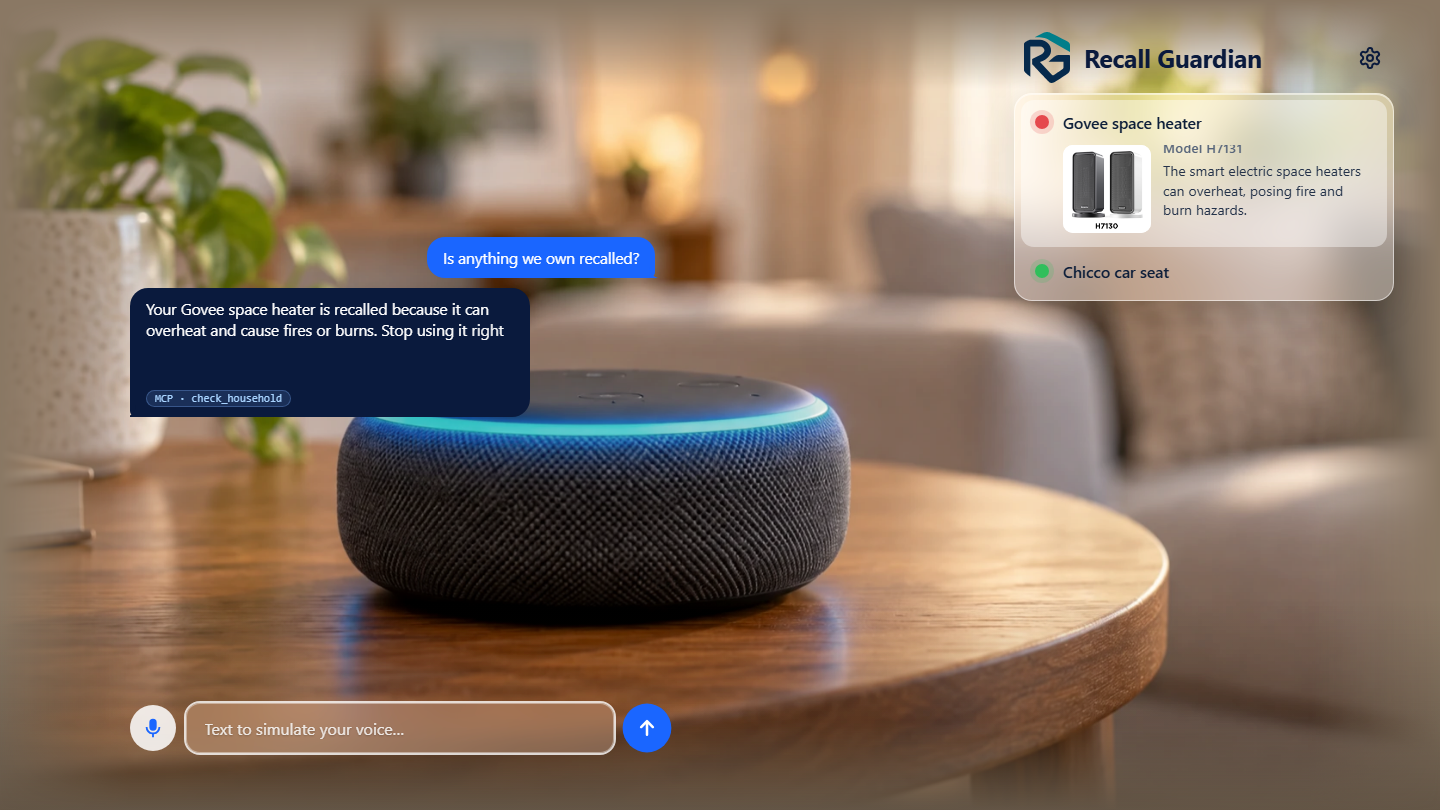
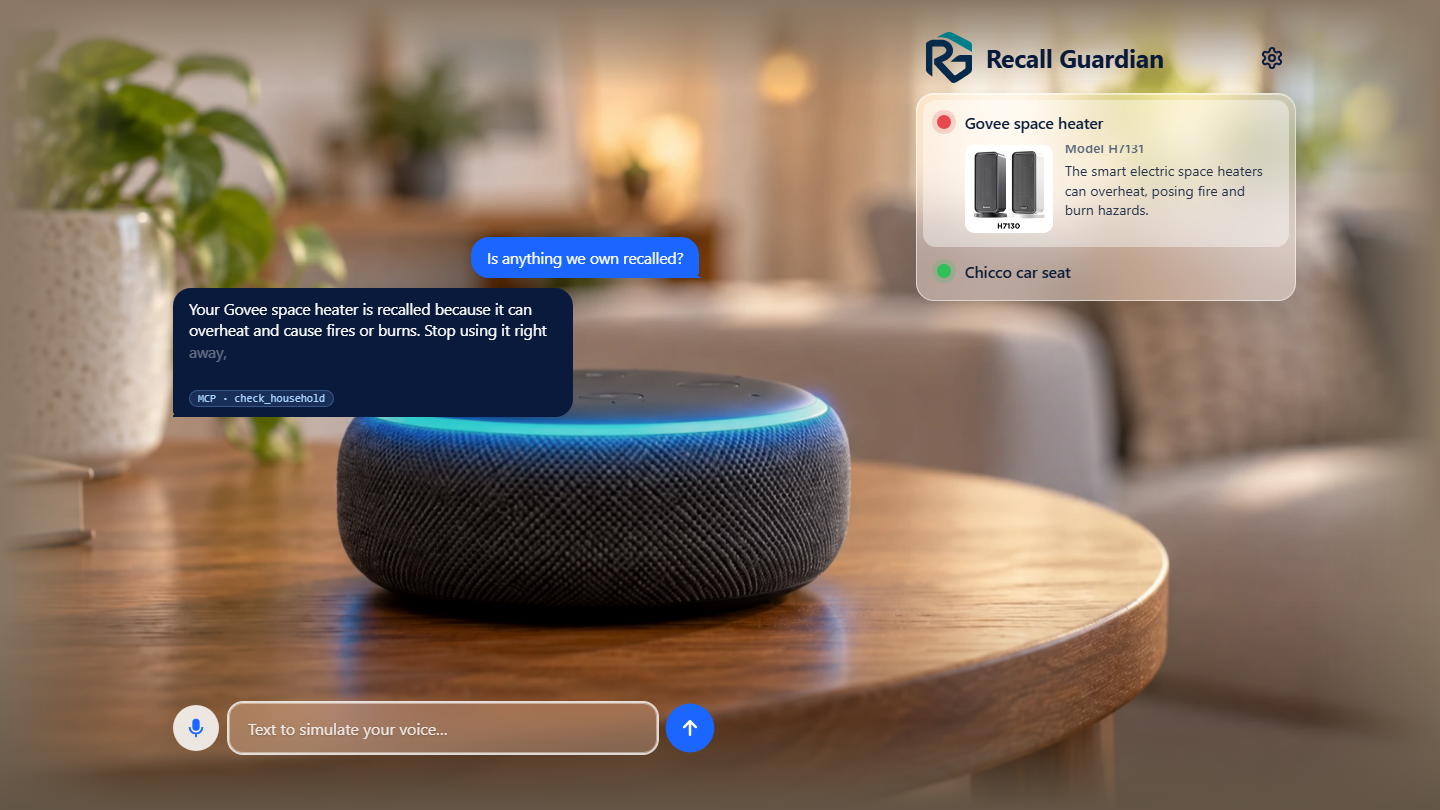
Simulator: place the chat and the Recall Guardian panel inside the photo, clear of its feathered edges

diff --git a/packages/simulator/src/ui-assets.generated.ts b/packages/simulator/src/ui-assets.generated.ts
@@ -14,7 +14,7 @@ export const UI_ASSETS: Record<string, { contentType: string; body: string; base
   },
   "/styles.css": {
     "contentType": "text/css; charset=utf-8",
-    "body": ":root {\n  --navy: #0a1a3d;\n  --blue: #1a66ff;\n  --ink: #0e1f3a;\n  --muted: #56647a;\n  --green: #2fbf5b;\n  --red: #e5484d;\n  --amber: #f5a524;\n  --font: Inter, 'Segoe UI', system-ui, -apple-system, Roboto, sans-serif;\n  /* The photos are 1672 x 941. Like the mockups, the whole photo is shown (fitted inside the window) and never\n     wider than its natural 1672 CSS px; a blurred copy fills the rest. */\n  --photo-ratio: 1.7768;\n  --scene-w: min(1672px, 100vw, 100vh * var(--photo-ratio));\n  --scene-x: -50%;\n  --photo-edge: #8a7864;\n  color-scheme: light;\n}\n\n* {\n  box-sizing: border-box;\n}\n\nhtml,\nbody {\n  height: 100%;\n  margin: 0;\n  /* the mean colour of the photo's left and right edges (scripts/build-images.mjs prints it) */\n  background: var(--photo-edge);\n  font-family: var(--font);\n  -webkit-font-smoothing: antialiased;\n}\n\n.sr-only {\n  position: absolute;\n  width: 1px;\n  height: 1px;\n  overflow: hidden;\n  clip: rect(0 0 0 0);\n}\n\n[hidden] {\n  display: none !important;\n}\n\nbutton {\n  font: inherit;\n  cursor: pointer;\n  border: 0;\n}\n\n:focus-visible {\n  outline: 3px solid #7fb2ff;\n  outline-offset: 2px;\n}\n\n/* ---- the stage: photo at natural size, blurred copy around it ------------------------------------------------ */\n\n.stage {\n  position: relative;\n  height: 100vh;\n  height: 100dvh;\n  overflow: hidden;\n  color: #fff;\n}\n\n.scene {\n  position: absolute;\n  left: 50%;\n  top: 50%;\n  width: var(--scene-w);\n  aspect-ratio: 1672 / 941;\n  transform: translate(var(--scene-x), -50%);\n  --pulse: 0.6;\n  /* Feathered edges: the photo fades softly into the page colour, which is sampled from the photo itself,\n     so it blends at any window shape without zooming, upscaling or a blurred copy. */\n  -webkit-mask-image:\n    linear-gradient(to right, transparent, #000 9%, #000 91%, transparent),\n    linear-gradient(to bottom, transparent, #000 11%, #000 89%, transparent);\n  -webkit-mask-composite: source-in;\n  mask-image:\n    linear-gradient(to right, transparent, #000 9%, #000 91%, transparent),\n    linear-gradient(to bottom, transparent, #000 11%, #000 89%, transparent);\n  mask-composite: intersect;\n}\n\n.layer {\n  position: absolute;\n  inset: 0;\n  width: 100%;\n  height: 100%;\n  user-select: none;\n  pointer-events: none;\n}\n\n/* The lit photo fades in and out over the dark one; every ring change is soft. */\n.l-lit {\n  opacity: 0;\n  transition: opacity 0.5s ease;\n}\n\n/* A soft blue light exactly over the ring (measured on the photo: x 25-58 %, y 49-56 %). */\n.glow {\n  position: absolute;\n  left: 22.5%;\n  width: 38.2%;\n  top: 45.5%;\n  height: 14%;\n  border-radius: 50%;\n  background: radial-gradient(\n    closest-side,\n    rgba(90, 200, 255, 0.85),\n    rgba(40, 130, 255, 0.4) 55%,\n    transparent\n  );\n  filter: blur(12px);\n  mix-blend-mode: screen;\n  opacity: 0;\n  transition: opacity 0.6s ease;\n  pointer-events: none;\n}\n\n.scene[data-ring='listening'] .l-lit {\n  opacity: 1;\n}\n.scene[data-ring='listening'] .glow {\n  opacity: 0.35;\n}\n\n/* thinking: the ring breathes slowly instead of spinning between two photos */\n.scene[data-ring='thinking'] .l-lit {\n  animation: breathe-ring 1.8s ease-in-out infinite;\n}\n.scene[data-ring='thinking'] .glow {\n  animation: breathe-glow 1.8s ease-in-out infinite;\n}\n\n/* speaking: brightness follows the loudness of the voice (--pulse, 0..1, smoothed in app.js) */\n.scene[data-ring='speaking'] .l-lit {\n  opacity: calc(0.45 + 0.55 * var(--pulse));\n  transition-duration: 0.12s;\n}\n.scene[data-ring='speaking'] .glow {\n  opacity: calc(0.7 * var(--pulse));\n  transition-duration: 0.12s;\n}\n.scene[data-ring='speaking'].fallback-pulse .l-lit {\n  animation: breathe-ring 1.3s ease-in-out infinite;\n}\n.scene[data-ring='speaking'].fallback-pulse .glow {\n  animation: breathe-glow 1.3s ease-in-out infinite;\n}\n\n@keyframes breathe-ring {\n  0%,\n  100% {\n    opacity: 0.3;\n  }\n  50% {\n    opacity: 0.95;\n  }\n}\n\n@keyframes breathe-glow {\n  0%,\n  100% {\n    opacity: 0.08;\n  }\n  50% {\n    opacity: 0.75;\n  }\n}\n\n/* a light wash keeps text readable over the bright parts of the photo */\n.scrim {\n  position: absolute;\n  inset: 0;\n  pointer-events: none;\n  background: linear-gradient(to top, rgba(20, 14, 8, 0.32), rgba(20, 14, 8, 0) 26%);\n}\n\n/* ---- conversation: floating bubbles, scrollable ------------------------------------------------------------- */\n\n.convo {\n  position: absolute;\n  left: clamp(14px, 9vw, 150px);\n  top: clamp(10px, 3vh, 40px);\n  bottom: clamp(230px, 48vh, 560px);\n  width: min(540px, calc(100vw - 28px));\n  display: flex;\n}\n\n.transcript {\n  list-style: none;\n  margin: 0;\n  width: 100%;\n  display: flex;\n  flex-direction: column;\n  gap: 10px;\n  padding: 36px 14px 4px 0;\n  overflow-y: auto;\n  overscroll-behavior: contain;\n  scrollbar-width: thin;\n  scrollbar-color: rgba(255, 255, 255, 0.55) transparent;\n  /* only the top edge fades; scrolling up brings older messages back */\n  -webkit-mask-image: linear-gradient(to bottom, transparent 0, #000 36px);\n  mask-image: linear-gradient(to bottom, transparent 0, #000 36px);\n}\n\n.transcript::-webkit-scrollbar {\n  width: 6px;\n}\n.transcript::-webkit-scrollbar-thumb {\n  border-radius: 3px;\n  background: rgba(255, 255, 255, 0.55);\n}\n\n/* new messages stack from the bottom, but the list still scrolls (justify-content: flex-end would not) */\n.transcript > :first-child {\n  margin-top: auto;\n}\n\n/* Messaging-app bubbles: rounded, with a small curved tail on the speaker's side, and a soft spring entrance\n   (slight scale, slide and fade) from that corner. */\n.bubble {\n  position: relative;\n  max-width: 76%;\n  padding: 10px 16px;\n  border-radius: 18px;\n  font-size: 0.97rem;\n  line-height: 1.38;\n  color: #fff;\n  animation: pop 0.5s cubic-bezier(0.22, 1, 0.36, 1) both;\n  overflow-wrap: anywhere;\n}\n\n.bubble::after {\n  content: '';\n  position: absolute;\n  bottom: 0;\n  width: 12px;\n  height: 12px;\n  background: inherit;\n}\n\n.bubble.alexa,\n.bubble.error {\n  align-self: flex-start;\n  border-bottom-left-radius: 6px;\n  transform-origin: 0 100%;\n}\n\n.bubble.alexa::after,\n.bubble.error::after {\n  left: -6px;\n  clip-path: path('M12 0 C12 7 7 12 0 12 L12 12 Z');\n}\n\n.bubble.alexa {\n  background: rgb(10, 26, 61);\n}\n\n.bubble.user {\n  align-self: flex-end;\n  border-bottom-right-radius: 6px;\n  background: var(--blue);\n  transform-origin: 100% 100%;\n}\n\n.bubble.user::after {\n  right: -6px;\n  clip-path: path('M0 0 C0 7 5 12 12 12 L0 12 Z');\n}\n\n.bubble.error {\n  background: rgb(120, 22, 38);\n}\n\n/* Alexa's words appear one by one, in step with her voice (app.js revealWords). */\n.bubble .w {\n  opacity: 0;\n  transition: opacity 0.22s ease;\n}\n\n.bubble .w.on {\n  opacity: 1;\n}\n\n/* The user's words while they are still talking. */\n.bubble.user.live {\n  background: rgba(26, 102, 255, 0.8);\n}\n\n.bubble.user.live .text::after {\n  content: '';\n  display: inline-block;\n  width: 2px;\n  height: 1em;\n  margin-left: 3px;\n  vertical-align: -0.15em;\n  background: rgba(255, 255, 255, 0.85);\n  animation: caret 1s steps(1) infinite;\n}\n\n@keyframes caret {\n  50% {\n    opacity: 0;\n  }\n}\n\n/* \"Alexa is thinking\": three dots that bounce gently. */\n.typing {\n  align-self: flex-start;\n  display: flex;\n  gap: 5px;\n  padding: 13px 16px;\n  border-radius: 18px;\n  border-bottom-left-radius: 6px;\n  background: rgb(10, 26, 61);\n  transform-origin: 0 100%;\n  animation: pop 0.4s cubic-bezier(0.22, 1, 0.36, 1) both;\n}\n\n.typing span {\n  width: 7px;\n  height: 7px;\n  border-radius: 50%;\n  background: rgba(255, 255, 255, 0.75);\n  animation: dot 1.2s ease-in-out infinite;\n}\n\n.typing span:nth-child(2) {\n  animation-delay: 0.15s;\n}\n\n.typing span:nth-child(3) {\n  animation-delay: 0.3s;\n}\n\n@keyframes dot {\n  0%,\n  60%,\n  100% {\n    transform: translateY(0);\n    opacity: 0.45;\n  }\n  30% {\n    transform: translateY(-4px);\n    opacity: 1;\n  }\n}\n\n.bubble.proactive {\n  box-shadow: inset 0 0 0 2px var(--amber);\n}\n\n.bubble.proactive::before {\n  content: 'Alexa noticed something';\n  display: block;\n  margin-bottom: 2px;\n  font-size: 0.68rem;\n  font-weight: 700;\n  letter-spacing: 0.07em;\n  text-transform: uppercase;\n  color: var(--amber);\n}\n\n.tools {\n  margin-top: 6px;\n  display: flex;\n  flex-wrap: wrap;\n  gap: 5px;\n}\n\n.chip {\n  font:\n    11px/1.4 ui-monospace,\n    Consolas,\n    monospace;\n  color: #a9d4ff;\n  background: rgba(127, 178, 255, 0.14);\n  border: 1px solid rgba(127, 178, 255, 0.3);\n  border-radius: 999px;\n  padding: 0 8px;\n}\n\n@keyframes rise {\n  from {\n    opacity: 0;\n    transform: translateY(14px) scale(0.97);\n  }\n}\n\n@keyframes pop {\n  0% {\n    opacity: 0;\n    transform: translateY(10px) scale(0.92);\n  }\n  60% {\n    opacity: 1;\n    transform: translateY(-1px) scale(1.01);\n  }\n  100% {\n    opacity: 1;\n    transform: none;\n  }\n}\n\n/* ---- Recall Guardian panel: brand header on the photo, items in one glass card ------------------------------------ */\n\n.panel {\n  position: absolute;\n  top: clamp(12px, 4vh, 44px);\n  right: clamp(14px, 3.2vw, 60px);\n  width: min(380px, calc(100vw - 28px));\n  max-height: calc(100% - 150px);\n  display: flex;\n  flex-direction: column;\n  gap: 10px;\n  color: var(--ink);\n}\n\n.panel-head {\n  display: flex;\n  align-items: center;\n  gap: 14px;\n  padding: 0 4px 0 10px;\n}\n\n.logo {\n  width: 46px;\n  height: auto;\n  flex: none;\n}\n\n.panel-head h1 {\n  flex: 1;\n  margin: 0;\n  font-size: 1.55rem;\n  font-weight: 700;\n  letter-spacing: -0.01em;\n  color: var(--navy);\n}\n\n.gear {\n  width: 40px;\n  height: 40px;\n  display: grid;\n  place-items: center;\n  border-radius: 50%;\n  background: transparent;\n  color: var(--navy);\n  transition:\n    transform 0.25s ease,\n    background 0.2s;\n}\n\n.gear:hover {\n  background: rgba(255, 255, 255, 0.4);\n}\n\n.gear[aria-expanded='true'] {\n  transform: rotate(60deg);\n}\n\n.household {\n  list-style: none;\n  margin: 0;\n  padding: 6px;\n  display: flex;\n  flex-direction: column;\n  overflow-y: auto;\n  border-radius: 18px;\n  background: rgba(255, 255, 255, 0.36);\n  -webkit-backdrop-filter: blur(22px) saturate(1.5);\n  backdrop-filter: blur(22px) saturate(1.5);\n  border: 1px solid rgba(255, 255, 255, 0.55);\n  box-shadow:\n    0 10px 30px rgba(30, 20, 10, 0.14),\n    inset 0 1px 0 rgba(255, 255, 255, 0.5);\n}\n\n.household:empty {\n  padding: 14px 18px;\n}\n\n.household:empty::after {\n  content: 'Nothing registered yet. Tell Alexa what you own.';\n  color: var(--muted);\n  font-size: 0.92rem;\n}\n\n.item {\n  border-radius: 13px;\n  animation: slide-in 0.5s cubic-bezier(0.2, 0.8, 0.2, 1) both;\n  transition: background 0.4s;\n}\n\n.item + .item {\n  margin-top: 2px;\n}\n\n.item[data-status='recalled'] {\n  background: rgba(255, 255, 255, 0.42);\n}\n\n@keyframes slide-in {\n  from {\n    opacity: 0;\n    transform: translateX(22px);\n  }\n}\n\n.item-row {\n  width: 100%;\n  display: flex;\n  align-items: center;\n  gap: 14px;\n  padding: 12px 14px;\n  background: transparent;\n  color: var(--ink);\n  text-align: left;\n  font-size: 0.98rem;\n  font-weight: 600;\n  border-radius: 13px;\n}\n\n.item-row[data-expandable='false'] {\n  cursor: default;\n}\n\n.dot {\n  width: 14px;\n  height: 14px;\n  flex: none;\n  border-radius: 50%;\n  background: var(--green);\n  box-shadow: 0 0 0 5px rgba(47, 191, 91, 0.18);\n  transition:\n    background 0.5s,\n    box-shadow 0.5s;\n}\n\n.item[data-status='recalled'] .dot {\n  background: var(--red);\n  box-shadow: 0 0 0 5px rgba(229, 72, 77, 0.2);\n  animation: alarm 1.8s ease-in-out infinite;\n}\n\n.item[data-status='question'] .dot {\n  background: var(--amber);\n  box-shadow: 0 0 0 5px rgba(245, 165, 36, 0.22);\n}\n\n.item.flip .dot {\n  animation: flip 0.7s ease both;\n}\n\n@keyframes alarm {\n  50% {\n    box-shadow: 0 0 0 9px rgba(229, 72, 77, 0.06);\n  }\n}\n\n@keyframes flip {\n  40% {\n    transform: scale(1.8);\n  }\n}\n\n.item-title {\n  flex: 1;\n  min-width: 0;\n  overflow-wrap: anywhere;\n}\n\n/* the detail unfolds smoothly (grid rows 0fr -> 1fr) */\n.detail {\n  display: grid;\n  grid-template-rows: 0fr;\n  opacity: 0;\n  transition:\n    grid-template-rows 0.55s cubic-bezier(0.2, 0.8, 0.2, 1),\n    opacity 0.45s ease;\n}\n\n.item[data-open='true'] .detail {\n  grid-template-rows: 1fr;\n  opacity: 1;\n}\n\n.detail > div {\n  min-height: 0;\n  overflow: hidden;\n}\n\n.detail-body {\n  display: flex;\n  gap: 12px;\n  padding: 0 14px 14px 42px;\n  font-size: 0.88rem;\n  line-height: 1.36;\n  color: #24324a;\n}\n\n.detail .model {\n  display: block;\n  margin: -6px 0 5px;\n  color: var(--muted);\n  font-size: 0.82rem;\n  font-weight: 600;\n  letter-spacing: 0.02em;\n}\n\n.detail img {\n  width: 88px;\n  height: 88px;\n  flex: none;\n  object-fit: contain;\n  border-radius: 10px;\n  background: #fff;\n}\n\n.detail p {\n  margin: 0;\n}\n\n/* ---- settings dialog --------------------------------------------------------------------------------------- */\n\n.settings {\n  width: min(420px, calc(100vw - 32px));\n  padding: 0;\n  border: 1px solid rgba(255, 255, 255, 0.6);\n  border-radius: 22px;\n  color: var(--ink);\n  background: rgba(255, 255, 255, 0.82);\n  -webkit-backdrop-filter: blur(24px) saturate(1.4);\n  backdrop-filter: blur(24px) saturate(1.4);\n  box-shadow: 0 24px 60px rgba(20, 14, 8, 0.3);\n}\n\n.settings[open] {\n  animation: pop 0.25s cubic-bezier(0.2, 0.8, 0.2, 1) both;\n}\n\n.settings::backdrop {\n  background: rgba(20, 14, 8, 0.28);\n  -webkit-backdrop-filter: blur(3px);\n  backdrop-filter: blur(3px);\n}\n\n@keyframes pop {\n  from {\n    opacity: 0;\n    transform: translateY(10px) scale(0.97);\n  }\n}\n\n.settings-form {\n  display: flex;\n  flex-direction: column;\n  gap: 14px;\n  padding: 18px 20px 20px;\n}\n\n.settings-head {\n  display: flex;\n  align-items: center;\n  justify-content: space-between;\n}\n\n.settings h2 {\n  margin: 0;\n  font-size: 1.2rem;\n  color: var(--navy);\n}\n\n.close {\n  width: 36px;\n  height: 36px;\n  display: grid;\n  place-items: center;\n  border-radius: 50%;\n  background: rgba(10, 26, 61, 0.06);\n  color: var(--navy);\n}\n\n.settings fieldset {\n  margin: 0;\n  padding: 0;\n  border: 0;\n  display: flex;\n  flex-direction: column;\n  gap: 8px;\n}\n\n.settings legend {\n  margin-bottom: 6px;\n  font-size: 0.72rem;\n  font-weight: 700;\n  letter-spacing: 0.08em;\n  text-transform: uppercase;\n  color: var(--muted);\n}\n\n.actions {\n  display: flex;\n  flex-wrap: wrap;\n  gap: 8px;\n}\n\n.actions button {\n  padding: 10px 14px;\n  border-radius: 12px;\n  background: var(--navy);\n  color: #fff;\n  font-weight: 600;\n  font-size: 0.9rem;\n}\n\n.actions button.quiet {\n  background: rgba(10, 26, 61, 0.08);\n  color: var(--navy);\n}\n\n.actions button:disabled {\n  opacity: 0.5;\n  cursor: progress;\n}\n\n.select {\n  display: flex;\n  flex-direction: column;\n  gap: 6px;\n  font-weight: 600;\n  font-size: 0.95rem;\n}\n\n.select select {\n  padding: 8px 10px;\n  border-radius: 10px;\n  border: 1px solid rgba(10, 26, 61, 0.2);\n  background: rgba(255, 255, 255, 0.85);\n  color: var(--ink);\n  font: inherit;\n  font-weight: 500;\n}\n\n.switch {\n  position: relative;\n  display: flex;\n  align-items: center;\n  gap: 12px;\n  font-weight: 600;\n  font-size: 0.95rem;\n  cursor: pointer;\n}\n\n/* visually replaced by .track, but still the real, focusable, clickable checkbox */\n.switch input {\n  position: absolute;\n  left: 0;\n  top: 0;\n  width: 42px;\n  height: 24px;\n  margin: 0;\n  opacity: 0;\n  cursor: pointer;\n}\n\n.track {\n  position: relative;\n  width: 42px;\n  height: 24px;\n  flex: none;\n  border-radius: 12px;\n  background: rgba(10, 26, 61, 0.2);\n  transition: background 0.2s;\n  pointer-events: none;\n}\n\n.track::after {\n  content: '';\n  position: absolute;\n  top: 3px;\n  left: 3px;\n  width: 18px;\n  height: 18px;\n  border-radius: 50%;\n  background: #fff;\n  box-shadow: 0 1px 3px rgba(0, 0, 0, 0.25);\n  transition: transform 0.2s;\n}\n\n.switch input:checked + .track {\n  background: var(--blue);\n}\n\n.switch input:checked + .track::after {\n  transform: translateX(18px);\n}\n\n.switch input:focus-visible + .track {\n  outline: 3px solid #7fb2ff;\n  outline-offset: 2px;\n}\n\n.fineprint {\n  margin: 2px 0 0;\n  font-size: 0.78rem;\n  color: var(--muted);\n}\n\n/* ---- first-run hint: sits where the first message will appear ------------------------------------------- */\n\n.hint {\n  position: absolute;\n  left: clamp(14px, 9vw, 150px);\n  bottom: clamp(230px, 48vh, 560px);\n  max-width: min(540px, calc(100vw - 28px));\n  margin: 0;\n  padding: 10px 16px;\n  border-radius: 14px;\n  color: #fff;\n  font-size: 0.95rem;\n  background: rgba(255, 255, 255, 0.16);\n  -webkit-backdrop-filter: blur(14px);\n  backdrop-filter: blur(14px);\n  border: 1px solid rgba(255, 255, 255, 0.35);\n  text-shadow: 0 1px 2px rgba(0, 0, 0, 0.3);\n  animation: rise 0.6s 0.4s cubic-bezier(0.2, 0.8, 0.2, 1) both;\n  pointer-events: none;\n}\n\n/* ---- notices, status, composer ---------------------------------------------------------------------------- */\n\n.notice,\n.status {\n  position: absolute;\n  left: clamp(14px, 9vw, 150px);\n  margin: 0;\n  max-width: min(540px, calc(100vw - 28px));\n  padding: 6px 12px;\n  border-radius: 999px;\n  background: rgba(10, 26, 61, 0.8);\n  font-size: 0.85rem;\n  line-height: 1.3;\n}\n\n.notice {\n  bottom: calc(clamp(18px, 7vh, 64px) + 70px);\n  color: #ffe2a8;\n}\n\n.status {\n  bottom: calc(clamp(18px, 7vh, 64px) + 70px);\n  transition: opacity 0.3s;\n}\n\n.status:empty {\n  opacity: 0;\n}\n\n.notice:not([hidden]) ~ .status:not(:empty) {\n  bottom: calc(clamp(18px, 7vh, 64px) + 108px);\n}\n\n.composer {\n  position: absolute;\n  left: clamp(14px, 9vw, 150px);\n  bottom: clamp(18px, 7vh, 64px);\n  width: min(540px, calc(100vw - 28px));\n  display: flex;\n  align-items: center;\n  gap: 10px;\n}\n\n.composer input {\n  flex: 1;\n  min-width: 0;\n  height: 50px;\n  padding: 0 18px;\n  border: 1px solid rgba(255, 255, 255, 0.4);\n  border-radius: 14px;\n  background: rgba(255, 255, 255, 0.22);\n  -webkit-backdrop-filter: blur(14px) saturate(1.3);\n  backdrop-filter: blur(14px) saturate(1.3);\n  color: #fff;\n  font: inherit;\n  font-size: 1rem;\n  text-shadow: 0 1px 2px rgba(0, 0, 0, 0.25);\n}\n\n.composer input::placeholder {\n  color: rgba(255, 255, 255, 0.85);\n}\n\n.composer input:focus-visible {\n  outline: 2px solid rgba(255, 255, 255, 0.8);\n  outline-offset: 0;\n}\n\n.composer input:disabled {\n  opacity: 0.7;\n}\n\n.mic,\n.send {\n  width: 46px;\n  height: 46px;\n  flex: none;\n  display: grid;\n  place-items: center;\n  border-radius: 50%;\n  transition:\n    transform 0.15s,\n    background 0.2s,\n    opacity 0.2s;\n}\n\n.send {\n  background: var(--blue);\n  color: #fff;\n}\n\n.mic {\n  background: rgba(255, 255, 255, 0.85);\n  color: var(--blue);\n}\n\n.mic[aria-pressed='true'] {\n  background: #31d6a0;\n  color: #04261b;\n  animation: breathe-btn 1.2s ease-in-out infinite;\n}\n\n.mic[data-armed='true'] {\n  box-shadow: 0 0 0 3px rgba(49, 214, 160, 0.7);\n}\n\n.mic:disabled {\n  background: rgba(255, 255, 255, 0.4);\n  color: rgba(10, 26, 61, 0.5);\n  cursor: not-allowed;\n}\n\n.send:disabled {\n  opacity: 0.5;\n  cursor: progress;\n}\n\n.send:hover:not(:disabled),\n.mic:hover:not(:disabled) {\n  transform: scale(1.06);\n}\n\n@keyframes breathe-btn {\n  50% {\n    box-shadow: 0 0 0 10px rgba(49, 214, 160, 0.25);\n  }\n}\n\n/* ---- phones ------------------------------------------------------------------------------------------------- */\n\n@media (max-width: 760px) {\n  :root {\n    /* a phone is too narrow to show the whole photo: fill the height and keep the Echo (ring centre at\n       41.6 % of the photo) in the middle */\n    --scene-w: min(1672px, max(100vw, 100vh * var(--photo-ratio)));\n    --scene-x: -41.6%;\n  }\n\n  .scene {\n    -webkit-mask-image: none;\n    mask-image: none;\n  }\n\n  .panel {\n    top: max(10px, env(safe-area-inset-top));\n    left: 10px;\n    right: 10px;\n    width: auto;\n    max-height: 40%;\n    gap: 8px;\n  }\n\n  .panel-head {\n    padding: 6px 4px 6px 10px;\n    border-radius: 16px;\n    background: rgba(255, 255, 255, 0.4);\n    -webkit-backdrop-filter: blur(18px);\n    backdrop-filter: blur(18px);\n  }\n\n  .logo {\n    width: 34px;\n  }\n\n  .panel-head h1 {\n    font-size: 1.2rem;\n  }\n\n  .convo {\n    left: 10px;\n    top: 38%;\n    bottom: calc(env(safe-area-inset-bottom) + 84px);\n    width: calc(100vw - 20px);\n  }\n\n  .bubble {\n    max-width: 86%;\n    font-size: 0.95rem;\n    padding: 9px 14px;\n  }\n\n  .composer {\n    left: 10px;\n    bottom: calc(env(safe-area-inset-bottom) + 14px);\n    width: calc(100vw - 20px);\n  }\n\n  .notice,\n  .status {\n    left: 10px;\n    max-width: calc(100vw - 20px);\n    bottom: calc(env(safe-area-inset-bottom) + 74px);\n  }\n\n  .notice:not([hidden]) ~ .status:not(:empty) {\n    bottom: calc(env(safe-area-inset-bottom) + 112px);\n  }\n\n  .hint {\n    left: 10px;\n    bottom: calc(env(safe-area-inset-bottom) + 160px);\n    max-width: calc(100vw - 20px);\n  }\n\n  .detail-body {\n    padding-left: 14px;\n  }\n\n  .detail img {\n    width: 72px;\n    height: 72px;\n  }\n}\n\n@media (max-height: 560px) and (min-width: 761px) {\n  .convo {\n    bottom: 140px;\n  }\n}\n\n@media (prefers-reduced-motion: reduce) {\n  *,\n  *::before,\n  *::after {\n    animation-duration: 0.01ms !important;\n    animation-iteration-count: 1 !important;\n    transition-duration: 0.01ms !important;\n  }\n}\n"
+    "body": ":root {\n  --navy: #0a1a3d;\n  --blue: #1a66ff;\n  --ink: #0e1f3a;\n  --muted: #56647a;\n  --green: #2fbf5b;\n  --red: #e5484d;\n  --amber: #f5a524;\n  --font: Inter, 'Segoe UI', system-ui, -apple-system, Roboto, sans-serif;\n  /* The photos are 1672 x 941. Like the mockups, the whole photo is shown (fitted inside the window) and never\n     wider than its natural 1672 CSS px; a blurred copy fills the rest. */\n  --photo-ratio: 1.7768;\n  --scene-w: min(1672px, 100vw, 100vh * var(--photo-ratio));\n  --scene-x: -50%;\n  --photo-edge: #8a7864;\n  /* Where the photo starts (0 when it fills the width), and how far inside it the chat and the panel sit,\n     clear of its feathered edges. */\n  --photo-left: max(0px, (100vw - var(--scene-w)) / 2);\n  --inset-left: calc(var(--photo-left) + var(--scene-w) * 0.12);\n  --inset-right: calc(var(--photo-left) + var(--scene-w) * 0.1);\n  color-scheme: light;\n}\n\n* {\n  box-sizing: border-box;\n}\n\nhtml,\nbody {\n  height: 100%;\n  margin: 0;\n  /* the mean colour of the photo's left and right edges (scripts/build-images.mjs prints it) */\n  background: var(--photo-edge);\n  font-family: var(--font);\n  -webkit-font-smoothing: antialiased;\n}\n\n.sr-only {\n  position: absolute;\n  width: 1px;\n  height: 1px;\n  overflow: hidden;\n  clip: rect(0 0 0 0);\n}\n\n[hidden] {\n  display: none !important;\n}\n\nbutton {\n  font: inherit;\n  cursor: pointer;\n  border: 0;\n}\n\n:focus-visible {\n  outline: 3px solid #7fb2ff;\n  outline-offset: 2px;\n}\n\n/* ---- the stage: photo at natural size, blurred copy around it ------------------------------------------------ */\n\n.stage {\n  position: relative;\n  height: 100vh;\n  height: 100dvh;\n  overflow: hidden;\n  color: #fff;\n}\n\n.scene {\n  position: absolute;\n  left: 50%;\n  top: 50%;\n  width: var(--scene-w);\n  aspect-ratio: 1672 / 941;\n  transform: translate(var(--scene-x), -50%);\n  --pulse: 0.6;\n  /* Feathered edges: the photo fades softly into the page colour, which is sampled from the photo itself,\n     so it blends at any window shape without zooming, upscaling or a blurred copy. */\n  -webkit-mask-image:\n    linear-gradient(to right, transparent, #000 9%, #000 91%, transparent),\n    linear-gradient(to bottom, transparent, #000 11%, #000 89%, transparent);\n  -webkit-mask-composite: source-in;\n  mask-image:\n    linear-gradient(to right, transparent, #000 9%, #000 91%, transparent),\n    linear-gradient(to bottom, transparent, #000 11%, #000 89%, transparent);\n  mask-composite: intersect;\n}\n\n.layer {\n  position: absolute;\n  inset: 0;\n  width: 100%;\n  height: 100%;\n  user-select: none;\n  pointer-events: none;\n}\n\n/* The lit photo fades in and out over the dark one; every ring change is soft. */\n.l-lit {\n  opacity: 0;\n  transition: opacity 0.5s ease;\n}\n\n/* A soft blue light exactly over the ring (measured on the photo: x 25-58 %, y 49-56 %). */\n.glow {\n  position: absolute;\n  left: 22.5%;\n  width: 38.2%;\n  top: 45.5%;\n  height: 14%;\n  border-radius: 50%;\n  background: radial-gradient(\n    closest-side,\n    rgba(90, 200, 255, 0.85),\n    rgba(40, 130, 255, 0.4) 55%,\n    transparent\n  );\n  filter: blur(12px);\n  mix-blend-mode: screen;\n  opacity: 0;\n  transition: opacity 0.6s ease;\n  pointer-events: none;\n}\n\n.scene[data-ring='listening'] .l-lit {\n  opacity: 1;\n}\n.scene[data-ring='listening'] .glow {\n  opacity: 0.35;\n}\n\n/* thinking: the ring breathes slowly instead of spinning between two photos */\n.scene[data-ring='thinking'] .l-lit {\n  animation: breathe-ring 1.8s ease-in-out infinite;\n}\n.scene[data-ring='thinking'] .glow {\n  animation: breathe-glow 1.8s ease-in-out infinite;\n}\n\n/* speaking: brightness follows the loudness of the voice (--pulse, 0..1, smoothed in app.js) */\n.scene[data-ring='speaking'] .l-lit {\n  opacity: calc(0.45 + 0.55 * var(--pulse));\n  transition-duration: 0.12s;\n}\n.scene[data-ring='speaking'] .glow {\n  opacity: calc(0.7 * var(--pulse));\n  transition-duration: 0.12s;\n}\n.scene[data-ring='speaking'].fallback-pulse .l-lit {\n  animation: breathe-ring 1.3s ease-in-out infinite;\n}\n.scene[data-ring='speaking'].fallback-pulse .glow {\n  animation: breathe-glow 1.3s ease-in-out infinite;\n}\n\n@keyframes breathe-ring {\n  0%,\n  100% {\n    opacity: 0.3;\n  }\n  50% {\n    opacity: 0.95;\n  }\n}\n\n@keyframes breathe-glow {\n  0%,\n  100% {\n    opacity: 0.08;\n  }\n  50% {\n    opacity: 0.75;\n  }\n}\n\n/* a light wash keeps text readable over the bright parts of the photo */\n.scrim {\n  position: absolute;\n  inset: 0;\n  pointer-events: none;\n  background: linear-gradient(to top, rgba(20, 14, 8, 0.32), rgba(20, 14, 8, 0) 26%);\n}\n\n/* ---- conversation: floating bubbles, scrollable ------------------------------------------------------------- */\n\n.convo {\n  position: absolute;\n  left: var(--inset-left);\n  top: clamp(10px, 3vh, 40px);\n  bottom: clamp(230px, 48vh, 560px);\n  width: min(540px, calc(100vw - 28px));\n  display: flex;\n}\n\n.transcript {\n  list-style: none;\n  margin: 0;\n  width: 100%;\n  display: flex;\n  flex-direction: column;\n  gap: 10px;\n  padding: 36px 14px 4px 0;\n  overflow-y: auto;\n  overscroll-behavior: contain;\n  scrollbar-width: thin;\n  scrollbar-color: rgba(255, 255, 255, 0.55) transparent;\n  /* only the top edge fades; scrolling up brings older messages back */\n  -webkit-mask-image: linear-gradient(to bottom, transparent 0, #000 36px);\n  mask-image: linear-gradient(to bottom, transparent 0, #000 36px);\n}\n\n.transcript::-webkit-scrollbar {\n  width: 6px;\n}\n.transcript::-webkit-scrollbar-thumb {\n  border-radius: 3px;\n  background: rgba(255, 255, 255, 0.55);\n}\n\n/* new messages stack from the bottom, but the list still scrolls (justify-content: flex-end would not) */\n.transcript > :first-child {\n  margin-top: auto;\n}\n\n/* Messaging-app bubbles: rounded, with a small curved tail on the speaker's side, and a soft spring entrance\n   (slight scale, slide and fade) from that corner. */\n.bubble {\n  position: relative;\n  max-width: 76%;\n  padding: 10px 16px;\n  border-radius: 18px;\n  font-size: 0.97rem;\n  line-height: 1.38;\n  color: #fff;\n  animation: pop 0.5s cubic-bezier(0.22, 1, 0.36, 1) both;\n  overflow-wrap: anywhere;\n}\n\n.bubble::after {\n  content: '';\n  position: absolute;\n  bottom: 0;\n  width: 12px;\n  height: 12px;\n  background: inherit;\n}\n\n.bubble.alexa,\n.bubble.error {\n  align-self: flex-start;\n  border-bottom-left-radius: 6px;\n  transform-origin: 0 100%;\n}\n\n.bubble.alexa::after,\n.bubble.error::after {\n  left: -6px;\n  clip-path: path('M12 0 C12 7 7 12 0 12 L12 12 Z');\n}\n\n.bubble.alexa {\n  background: rgb(10, 26, 61);\n}\n\n.bubble.user {\n  align-self: flex-end;\n  border-bottom-right-radius: 6px;\n  background: var(--blue);\n  transform-origin: 100% 100%;\n}\n\n.bubble.user::after {\n  right: -6px;\n  clip-path: path('M0 0 C0 7 5 12 12 12 L0 12 Z');\n}\n\n.bubble.error {\n  background: rgb(120, 22, 38);\n}\n\n/* Alexa's words appear one by one, in step with her voice (app.js revealWords). */\n.bubble .w {\n  opacity: 0;\n  transition: opacity 0.22s ease;\n}\n\n.bubble .w.on {\n  opacity: 1;\n}\n\n/* The user's words while they are still talking. */\n.bubble.user.live {\n  background: rgba(26, 102, 255, 0.8);\n}\n\n.bubble.user.live .text::after {\n  content: '';\n  display: inline-block;\n  width: 2px;\n  height: 1em;\n  margin-left: 3px;\n  vertical-align: -0.15em;\n  background: rgba(255, 255, 255, 0.85);\n  animation: caret 1s steps(1) infinite;\n}\n\n@keyframes caret {\n  50% {\n    opacity: 0;\n  }\n}\n\n/* \"Alexa is thinking\": three dots that bounce gently. */\n.typing {\n  align-self: flex-start;\n  display: flex;\n  gap: 5px;\n  padding: 13px 16px;\n  border-radius: 18px;\n  border-bottom-left-radius: 6px;\n  background: rgb(10, 26, 61);\n  transform-origin: 0 100%;\n  animation: pop 0.4s cubic-bezier(0.22, 1, 0.36, 1) both;\n}\n\n.typing span {\n  width: 7px;\n  height: 7px;\n  border-radius: 50%;\n  background: rgba(255, 255, 255, 0.75);\n  animation: dot 1.2s ease-in-out infinite;\n}\n\n.typing span:nth-child(2) {\n  animation-delay: 0.15s;\n}\n\n.typing span:nth-child(3) {\n  animation-delay: 0.3s;\n}\n\n@keyframes dot {\n  0%,\n  60%,\n  100% {\n    transform: translateY(0);\n    opacity: 0.45;\n  }\n  30% {\n    transform: translateY(-4px);\n    opacity: 1;\n  }\n}\n\n.bubble.proactive {\n  box-shadow: inset 0 0 0 2px var(--amber);\n}\n\n.bubble.proactive::before {\n  content: 'Alexa noticed something';\n  display: block;\n  margin-bottom: 2px;\n  font-size: 0.68rem;\n  font-weight: 700;\n  letter-spacing: 0.07em;\n  text-transform: uppercase;\n  color: var(--amber);\n}\n\n.tools {\n  margin-top: 6px;\n  display: flex;\n  flex-wrap: wrap;\n  gap: 5px;\n}\n\n.chip {\n  font:\n    11px/1.4 ui-monospace,\n    Consolas,\n    monospace;\n  color: #a9d4ff;\n  background: rgba(127, 178, 255, 0.14);\n  border: 1px solid rgba(127, 178, 255, 0.3);\n  border-radius: 999px;\n  padding: 0 8px;\n}\n\n@keyframes rise {\n  from {\n    opacity: 0;\n    transform: translateY(14px) scale(0.97);\n  }\n}\n\n@keyframes pop {\n  0% {\n    opacity: 0;\n    transform: translateY(10px) scale(0.92);\n  }\n  60% {\n    opacity: 1;\n    transform: translateY(-1px) scale(1.01);\n  }\n  100% {\n    opacity: 1;\n    transform: none;\n  }\n}\n\n/* ---- Recall Guardian panel: brand header on the photo, items in one glass card ------------------------------------ */\n\n.panel {\n  position: absolute;\n  top: clamp(12px, 4vh, 44px);\n  right: var(--inset-right);\n  width: min(380px, calc(100vw - 28px));\n  max-height: calc(100% - 150px);\n  display: flex;\n  flex-direction: column;\n  gap: 10px;\n  color: var(--ink);\n}\n\n.panel-head {\n  display: flex;\n  align-items: center;\n  gap: 14px;\n  padding: 0 4px 0 10px;\n}\n\n.logo {\n  width: 46px;\n  height: auto;\n  flex: none;\n}\n\n.panel-head h1 {\n  flex: 1;\n  margin: 0;\n  font-size: 1.55rem;\n  font-weight: 700;\n  letter-spacing: -0.01em;\n  color: var(--navy);\n}\n\n.gear {\n  width: 40px;\n  height: 40px;\n  display: grid;\n  place-items: center;\n  border-radius: 50%;\n  background: transparent;\n  color: var(--navy);\n  transition:\n    transform 0.25s ease,\n    background 0.2s;\n}\n\n.gear:hover {\n  background: rgba(255, 255, 255, 0.4);\n}\n\n.gear[aria-expanded='true'] {\n  transform: rotate(60deg);\n}\n\n.household {\n  list-style: none;\n  margin: 0;\n  padding: 6px;\n  display: flex;\n  flex-direction: column;\n  overflow-y: auto;\n  border-radius: 18px;\n  background: rgba(255, 255, 255, 0.36);\n  -webkit-backdrop-filter: blur(22px) saturate(1.5);\n  backdrop-filter: blur(22px) saturate(1.5);\n  border: 1px solid rgba(255, 255, 255, 0.55);\n  box-shadow:\n    0 10px 30px rgba(30, 20, 10, 0.14),\n    inset 0 1px 0 rgba(255, 255, 255, 0.5);\n}\n\n.household:empty {\n  padding: 14px 18px;\n}\n\n.household:empty::after {\n  content: 'Nothing registered yet. Tell Alexa what you own.';\n  color: var(--muted);\n  font-size: 0.92rem;\n}\n\n.item {\n  border-radius: 13px;\n  animation: slide-in 0.5s cubic-bezier(0.2, 0.8, 0.2, 1) both;\n  transition: background 0.4s;\n}\n\n.item + .item {\n  margin-top: 2px;\n}\n\n.item[data-status='recalled'] {\n  background: rgba(255, 255, 255, 0.42);\n}\n\n@keyframes slide-in {\n  from {\n    opacity: 0;\n    transform: translateX(22px);\n  }\n}\n\n.item-row {\n  width: 100%;\n  display: flex;\n  align-items: center;\n  gap: 14px;\n  padding: 12px 14px;\n  background: transparent;\n  color: var(--ink);\n  text-align: left;\n  font-size: 0.98rem;\n  font-weight: 600;\n  border-radius: 13px;\n}\n\n.item-row[data-expandable='false'] {\n  cursor: default;\n}\n\n.dot {\n  width: 14px;\n  height: 14px;\n  flex: none;\n  border-radius: 50%;\n  background: var(--green);\n  box-shadow: 0 0 0 5px rgba(47, 191, 91, 0.18);\n  transition:\n    background 0.5s,\n    box-shadow 0.5s;\n}\n\n.item[data-status='recalled'] .dot {\n  background: var(--red);\n  box-shadow: 0 0 0 5px rgba(229, 72, 77, 0.2);\n  animation: alarm 1.8s ease-in-out infinite;\n}\n\n.item[data-status='question'] .dot {\n  background: var(--amber);\n  box-shadow: 0 0 0 5px rgba(245, 165, 36, 0.22);\n}\n\n.item.flip .dot {\n  animation: flip 0.7s ease both;\n}\n\n@keyframes alarm {\n  50% {\n    box-shadow: 0 0 0 9px rgba(229, 72, 77, 0.06);\n  }\n}\n\n@keyframes flip {\n  40% {\n    transform: scale(1.8);\n  }\n}\n\n.item-title {\n  flex: 1;\n  min-width: 0;\n  overflow-wrap: anywhere;\n}\n\n/* the detail unfolds smoothly (grid rows 0fr -> 1fr) */\n.detail {\n  display: grid;\n  grid-template-rows: 0fr;\n  opacity: 0;\n  transition:\n    grid-template-rows 0.55s cubic-bezier(0.2, 0.8, 0.2, 1),\n    opacity 0.45s ease;\n}\n\n.item[data-open='true'] .detail {\n  grid-template-rows: 1fr;\n  opacity: 1;\n}\n\n.detail > div {\n  min-height: 0;\n  overflow: hidden;\n}\n\n.detail-body {\n  display: flex;\n  gap: 12px;\n  padding: 0 14px 14px 42px;\n  font-size: 0.88rem;\n  line-height: 1.36;\n  color: #24324a;\n}\n\n.detail .model {\n  display: block;\n  margin: -6px 0 5px;\n  color: var(--muted);\n  font-size: 0.82rem;\n  font-weight: 600;\n  letter-spacing: 0.02em;\n}\n\n.detail img {\n  width: 88px;\n  height: 88px;\n  flex: none;\n  object-fit: contain;\n  border-radius: 10px;\n  background: #fff;\n}\n\n.detail p {\n  margin: 0;\n}\n\n/* ---- settings dialog --------------------------------------------------------------------------------------- */\n\n.settings {\n  width: min(420px, calc(100vw - 32px));\n  padding: 0;\n  border: 1px solid rgba(255, 255, 255, 0.6);\n  border-radius: 22px;\n  color: var(--ink);\n  background: rgba(255, 255, 255, 0.82);\n  -webkit-backdrop-filter: blur(24px) saturate(1.4);\n  backdrop-filter: blur(24px) saturate(1.4);\n  box-shadow: 0 24px 60px rgba(20, 14, 8, 0.3);\n}\n\n.settings[open] {\n  animation: pop 0.25s cubic-bezier(0.2, 0.8, 0.2, 1) both;\n}\n\n.settings::backdrop {\n  background: rgba(20, 14, 8, 0.28);\n  -webkit-backdrop-filter: blur(3px);\n  backdrop-filter: blur(3px);\n}\n\n@keyframes pop {\n  from {\n    opacity: 0;\n    transform: translateY(10px) scale(0.97);\n  }\n}\n\n.settings-form {\n  display: flex;\n  flex-direction: column;\n  gap: 14px;\n  padding: 18px 20px 20px;\n}\n\n.settings-head {\n  display: flex;\n  align-items: center;\n  justify-content: space-between;\n}\n\n.settings h2 {\n  margin: 0;\n  font-size: 1.2rem;\n  color: var(--navy);\n}\n\n.close {\n  width: 36px;\n  height: 36px;\n  display: grid;\n  place-items: center;\n  border-radius: 50%;\n  background: rgba(10, 26, 61, 0.06);\n  color: var(--navy);\n}\n\n.settings fieldset {\n  margin: 0;\n  padding: 0;\n  border: 0;\n  display: flex;\n  flex-direction: column;\n  gap: 8px;\n}\n\n.settings legend {\n  margin-bottom: 6px;\n  font-size: 0.72rem;\n  font-weight: 700;\n  letter-spacing: 0.08em;\n  text-transform: uppercase;\n  color: var(--muted);\n}\n\n.actions {\n  display: flex;\n  flex-wrap: wrap;\n  gap: 8px;\n}\n\n.actions button {\n  padding: 10px 14px;\n  border-radius: 12px;\n  background: var(--navy);\n  color: #fff;\n  font-weight: 600;\n  font-size: 0.9rem;\n}\n\n.actions button.quiet {\n  background: rgba(10, 26, 61, 0.08);\n  color: var(--navy);\n}\n\n.actions button:disabled {\n  opacity: 0.5;\n  cursor: progress;\n}\n\n.select {\n  display: flex;\n  flex-direction: column;\n  gap: 6px;\n  font-weight: 600;\n  font-size: 0.95rem;\n}\n\n.select select {\n  padding: 8px 10px;\n  border-radius: 10px;\n  border: 1px solid rgba(10, 26, 61, 0.2);\n  background: rgba(255, 255, 255, 0.85);\n  color: var(--ink);\n  font: inherit;\n  font-weight: 500;\n}\n\n.switch {\n  position: relative;\n  display: flex;\n  align-items: center;\n  gap: 12px;\n  font-weight: 600;\n  font-size: 0.95rem;\n  cursor: pointer;\n}\n\n/* visually replaced by .track, but still the real, focusable, clickable checkbox */\n.switch input {\n  position: absolute;\n  left: 0;\n  top: 0;\n  width: 42px;\n  height: 24px;\n  margin: 0;\n  opacity: 0;\n  cursor: pointer;\n}\n\n.track {\n  position: relative;\n  width: 42px;\n  height: 24px;\n  flex: none;\n  border-radius: 12px;\n  background: rgba(10, 26, 61, 0.2);\n  transition: background 0.2s;\n  pointer-events: none;\n}\n\n.track::after {\n  content: '';\n  position: absolute;\n  top: 3px;\n  left: 3px;\n  width: 18px;\n  height: 18px;\n  border-radius: 50%;\n  background: #fff;\n  box-shadow: 0 1px 3px rgba(0, 0, 0, 0.25);\n  transition: transform 0.2s;\n}\n\n.switch input:checked + .track {\n  background: var(--blue);\n}\n\n.switch input:checked + .track::after {\n  transform: translateX(18px);\n}\n\n.switch input:focus-visible + .track {\n  outline: 3px solid #7fb2ff;\n  outline-offset: 2px;\n}\n\n.fineprint {\n  margin: 2px 0 0;\n  font-size: 0.78rem;\n  color: var(--muted);\n}\n\n/* ---- first-run hint: sits where the first message will appear ------------------------------------------- */\n\n.hint {\n  position: absolute;\n  left: var(--inset-left);\n  bottom: clamp(230px, 48vh, 560px);\n  max-width: min(540px, calc(100vw - 28px));\n  margin: 0;\n  padding: 10px 16px;\n  border-radius: 14px;\n  color: #fff;\n  font-size: 0.95rem;\n  background: rgba(255, 255, 255, 0.16);\n  -webkit-backdrop-filter: blur(14px);\n  backdrop-filter: blur(14px);\n  border: 1px solid rgba(255, 255, 255, 0.35);\n  text-shadow: 0 1px 2px rgba(0, 0, 0, 0.3);\n  animation: rise 0.6s 0.4s cubic-bezier(0.2, 0.8, 0.2, 1) both;\n  pointer-events: none;\n}\n\n/* ---- notices, status, composer ---------------------------------------------------------------------------- */\n\n.notice,\n.status {\n  position: absolute;\n  left: var(--inset-left);\n  margin: 0;\n  max-width: min(540px, calc(100vw - 28px));\n  padding: 6px 12px;\n  border-radius: 999px;\n  background: rgba(10, 26, 61, 0.8);\n  font-size: 0.85rem;\n  line-height: 1.3;\n}\n\n.notice {\n  bottom: calc(clamp(18px, 7vh, 64px) + 70px);\n  color: #ffe2a8;\n}\n\n.status {\n  bottom: calc(clamp(18px, 7vh, 64px) + 70px);\n  transition: opacity 0.3s;\n}\n\n.status:empty {\n  opacity: 0;\n}\n\n.notice:not([hidden]) ~ .status:not(:empty) {\n  bottom: calc(clamp(18px, 7vh, 64px) + 108px);\n}\n\n.composer {\n  position: absolute;\n  left: var(--inset-left);\n  bottom: clamp(18px, 7vh, 64px);\n  width: min(540px, calc(100vw - 28px));\n  display: flex;\n  align-items: center;\n  gap: 10px;\n}\n\n.composer input {\n  flex: 1;\n  min-width: 0;\n  height: 50px;\n  padding: 0 18px;\n  border: 1px solid rgba(255, 255, 255, 0.4);\n  border-radius: 14px;\n  background: rgba(255, 255, 255, 0.22);\n  -webkit-backdrop-filter: blur(14px) saturate(1.3);\n  backdrop-filter: blur(14px) saturate(1.3);\n  color: #fff;\n  font: inherit;\n  font-size: 1rem;\n  text-shadow: 0 1px 2px rgba(0, 0, 0, 0.25);\n}\n\n.composer input::placeholder {\n  color: rgba(255, 255, 255, 0.85);\n}\n\n.composer input:focus-visible {\n  outline: 2px solid rgba(255, 255, 255, 0.8);\n  outline-offset: 0;\n}\n\n.composer input:disabled {\n  opacity: 0.7;\n}\n\n.mic,\n.send {\n  width: 46px;\n  height: 46px;\n  flex: none;\n  display: grid;\n  place-items: center;\n  border-radius: 50%;\n  transition:\n    transform 0.15s,\n    background 0.2s,\n    opacity 0.2s;\n}\n\n.send {\n  background: var(--blue);\n  color: #fff;\n}\n\n.mic {\n  background: rgba(255, 255, 255, 0.85);\n  color: var(--blue);\n}\n\n.mic[aria-pressed='true'] {\n  background: #31d6a0;\n  color: #04261b;\n  animation: breathe-btn 1.2s ease-in-out infinite;\n}\n\n.mic[data-armed='true'] {\n  box-shadow: 0 0 0 3px rgba(49, 214, 160, 0.7);\n}\n\n.mic:disabled {\n  background: rgba(255, 255, 255, 0.4);\n  color: rgba(10, 26, 61, 0.5);\n  cursor: not-allowed;\n}\n\n.send:disabled {\n  opacity: 0.5;\n  cursor: progress;\n}\n\n.send:hover:not(:disabled),\n.mic:hover:not(:disabled) {\n  transform: scale(1.06);\n}\n\n@keyframes breathe-btn {\n  50% {\n    box-shadow: 0 0 0 10px rgba(49, 214, 160, 0.25);\n  }\n}\n\n/* ---- phones ------------------------------------------------------------------------------------------------- */\n\n@media (max-width: 760px) {\n  :root {\n    /* a phone is too narrow to show the whole photo: fill the height and keep the Echo (ring centre at\n       41.6 % of the photo) in the middle */\n    --scene-w: min(1672px, max(100vw, 100vh * var(--photo-ratio)));\n    --scene-x: -41.6%;\n  }\n\n  .scene {\n    -webkit-mask-image: none;\n    mask-image: none;\n  }\n\n  .panel {\n    top: max(10px, env(safe-area-inset-top));\n    left: 10px;\n    right: 10px;\n    width: auto;\n    max-height: 40%;\n    gap: 8px;\n  }\n\n  .panel-head {\n    padding: 6px 4px 6px 10px;\n    border-radius: 16px;\n    background: rgba(255, 255, 255, 0.4);\n    -webkit-backdrop-filter: blur(18px);\n    backdrop-filter: blur(18px);\n  }\n\n  .logo {\n    width: 34px;\n  }\n\n  .panel-head h1 {\n    font-size: 1.2rem;\n  }\n\n  .convo {\n    left: 10px;\n    top: 38%;\n    bottom: calc(env(safe-area-inset-bottom) + 84px);\n    width: calc(100vw - 20px);\n  }\n\n  .bubble {\n    max-width: 86%;\n    font-size: 0.95rem;\n    padding: 9px 14px;\n  }\n\n  .composer {\n    left: 10px;\n    bottom: calc(env(safe-area-inset-bottom) + 14px);\n    width: calc(100vw - 20px);\n  }\n\n  .notice,\n  .status {\n    left: 10px;\n    max-width: calc(100vw - 20px);\n    bottom: calc(env(safe-area-inset-bottom) + 74px);\n  }\n\n  .notice:not([hidden]) ~ .status:not(:empty) {\n    bottom: calc(env(safe-area-inset-bottom) + 112px);\n  }\n\n  .hint {\n    left: 10px;\n    bottom: calc(env(safe-area-inset-bottom) + 160px);\n    max-width: calc(100vw - 20px);\n  }\n\n  .detail-body {\n    padding-left: 14px;\n  }\n\n  .detail img {\n    width: 72px;\n    height: 72px;\n  }\n}\n\n@media (max-height: 560px) and (min-width: 761px) {\n  .convo {\n    bottom: 140px;\n  }\n}\n\n@media (prefers-reduced-motion: reduce) {\n  *,\n  *::before,\n  *::after {\n    animation-duration: 0.01ms !important;\n    animation-iteration-count: 1 !important;\n    transition-duration: 0.01ms !important;\n  }\n}\n"
   },
   "/voice.js": {
     "contentType": "text/javascript; charset=utf-8",

diff --git a/packages/simulator/public/styles.css b/packages/simulator/public/styles.css
@@ -13,6 +13,11 @@
   --scene-w: min(1672px, 100vw, 100vh * var(--photo-ratio));
   --scene-x: -50%;
   --photo-edge: #8a7864;
+  /* Where the photo starts (0 when it fills the width), and how far inside it the chat and the panel sit,
+     clear of its feathered edges. */
+  --photo-left: max(0px, (100vw - var(--scene-w)) / 2);
+  --inset-left: calc(var(--photo-left) + var(--scene-w) * 0.12);
+  --inset-right: calc(var(--photo-left) + var(--scene-w) * 0.1);
   color-scheme: light;
 }
 
@@ -182,7 +187,7 @@ button {
 
 .convo {
   position: absolute;
-  left: clamp(14px, 9vw, 150px);
+  left: var(--inset-left);
   top: clamp(10px, 3vh, 40px);
   bottom: clamp(230px, 48vh, 560px);
   width: min(540px, calc(100vw - 28px));
@@ -410,7 +415,7 @@ button {
 .panel {
   position: absolute;
   top: clamp(12px, 4vh, 44px);
-  right: clamp(14px, 3.2vw, 60px);
+  right: var(--inset-right);
   width: min(380px, calc(100vw - 28px));
   max-height: calc(100% - 150px);
   display: flex;
@@ -814,7 +819,7 @@ button {
 
 .hint {
   position: absolute;
-  left: clamp(14px, 9vw, 150px);
+  left: var(--inset-left);
   bottom: clamp(230px, 48vh, 560px);
   max-width: min(540px, calc(100vw - 28px));
   margin: 0;
@@ -836,7 +841,7 @@ button {
 .notice,
 .status {
   position: absolute;
-  left: clamp(14px, 9vw, 150px);
+  left: var(--inset-left);
   margin: 0;
   max-width: min(540px, calc(100vw - 28px));
   padding: 6px 12px;
@@ -866,7 +871,7 @@ button {
 
 .composer {
   position: absolute;
-  left: clamp(14px, 9vw, 150px);
+  left: var(--inset-left);
   bottom: clamp(18px, 7vh, 64px);
   width: min(540px, calc(100vw - 28px));
   display: flex;
